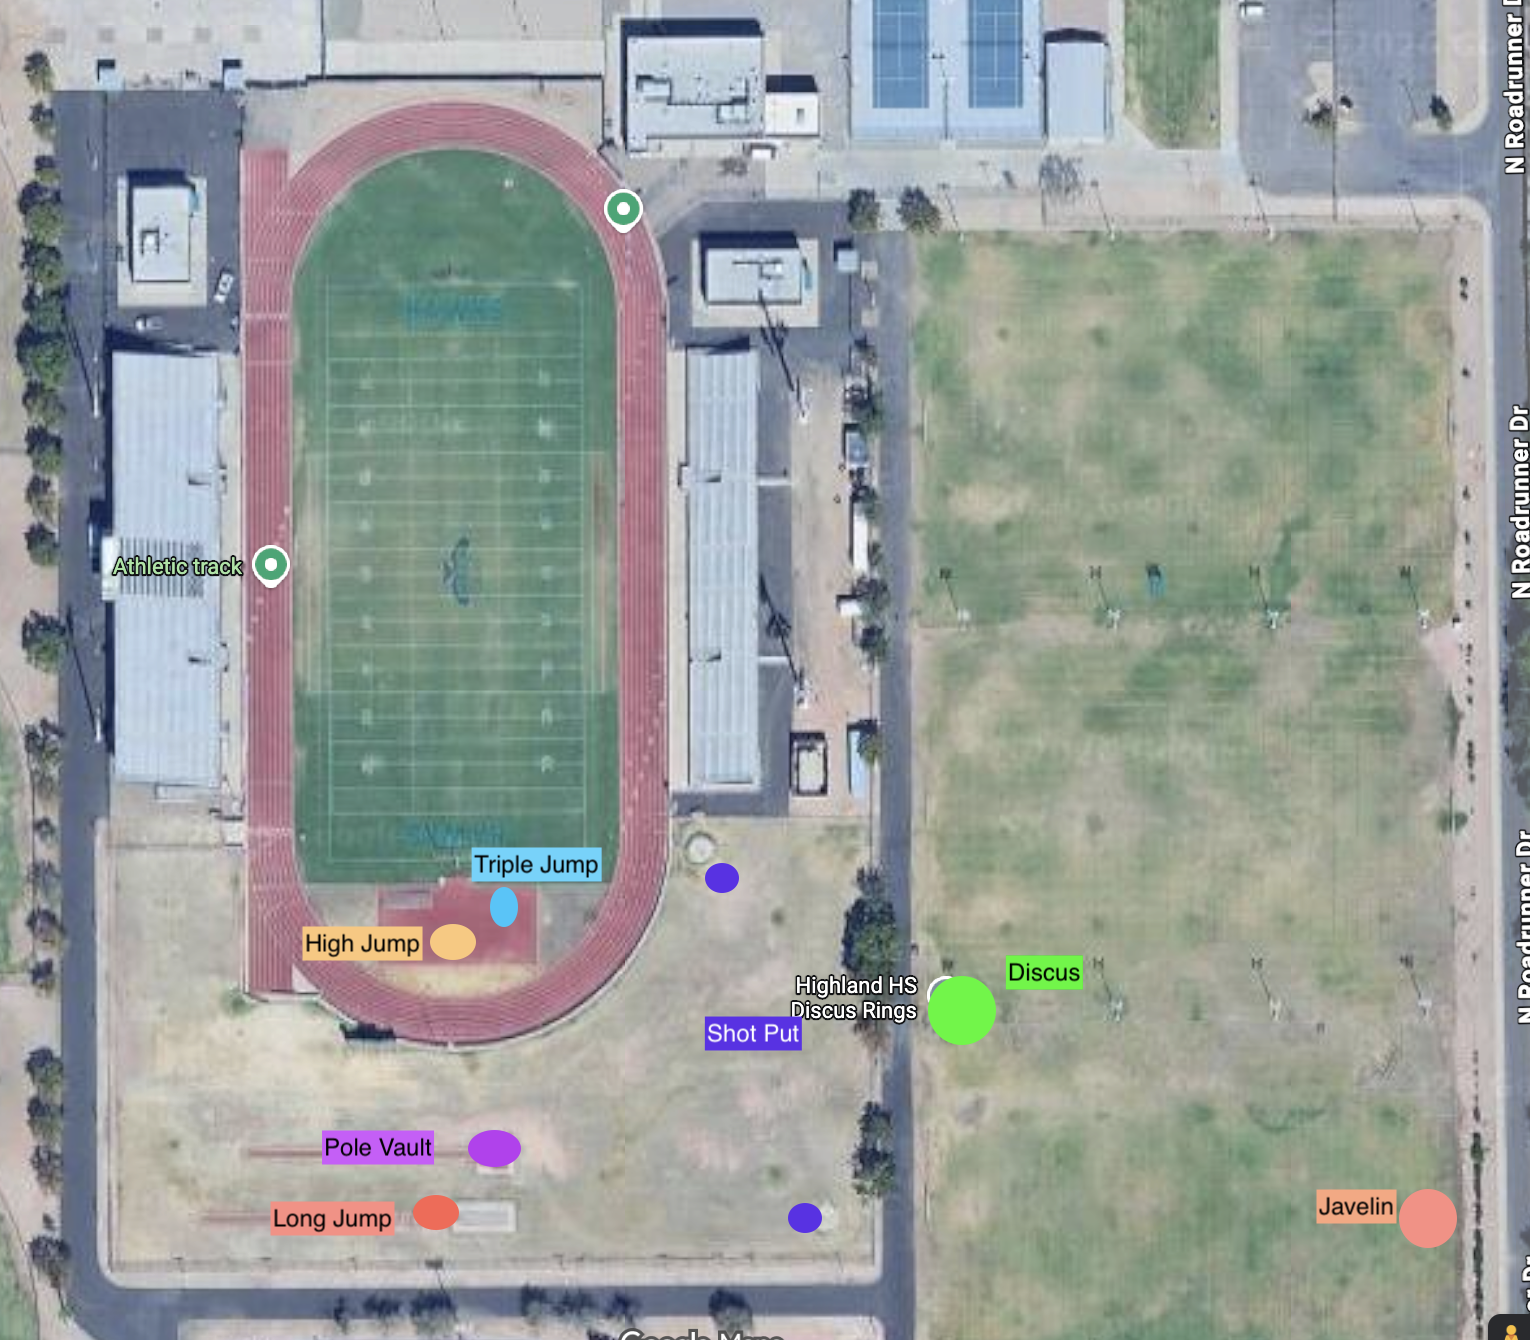
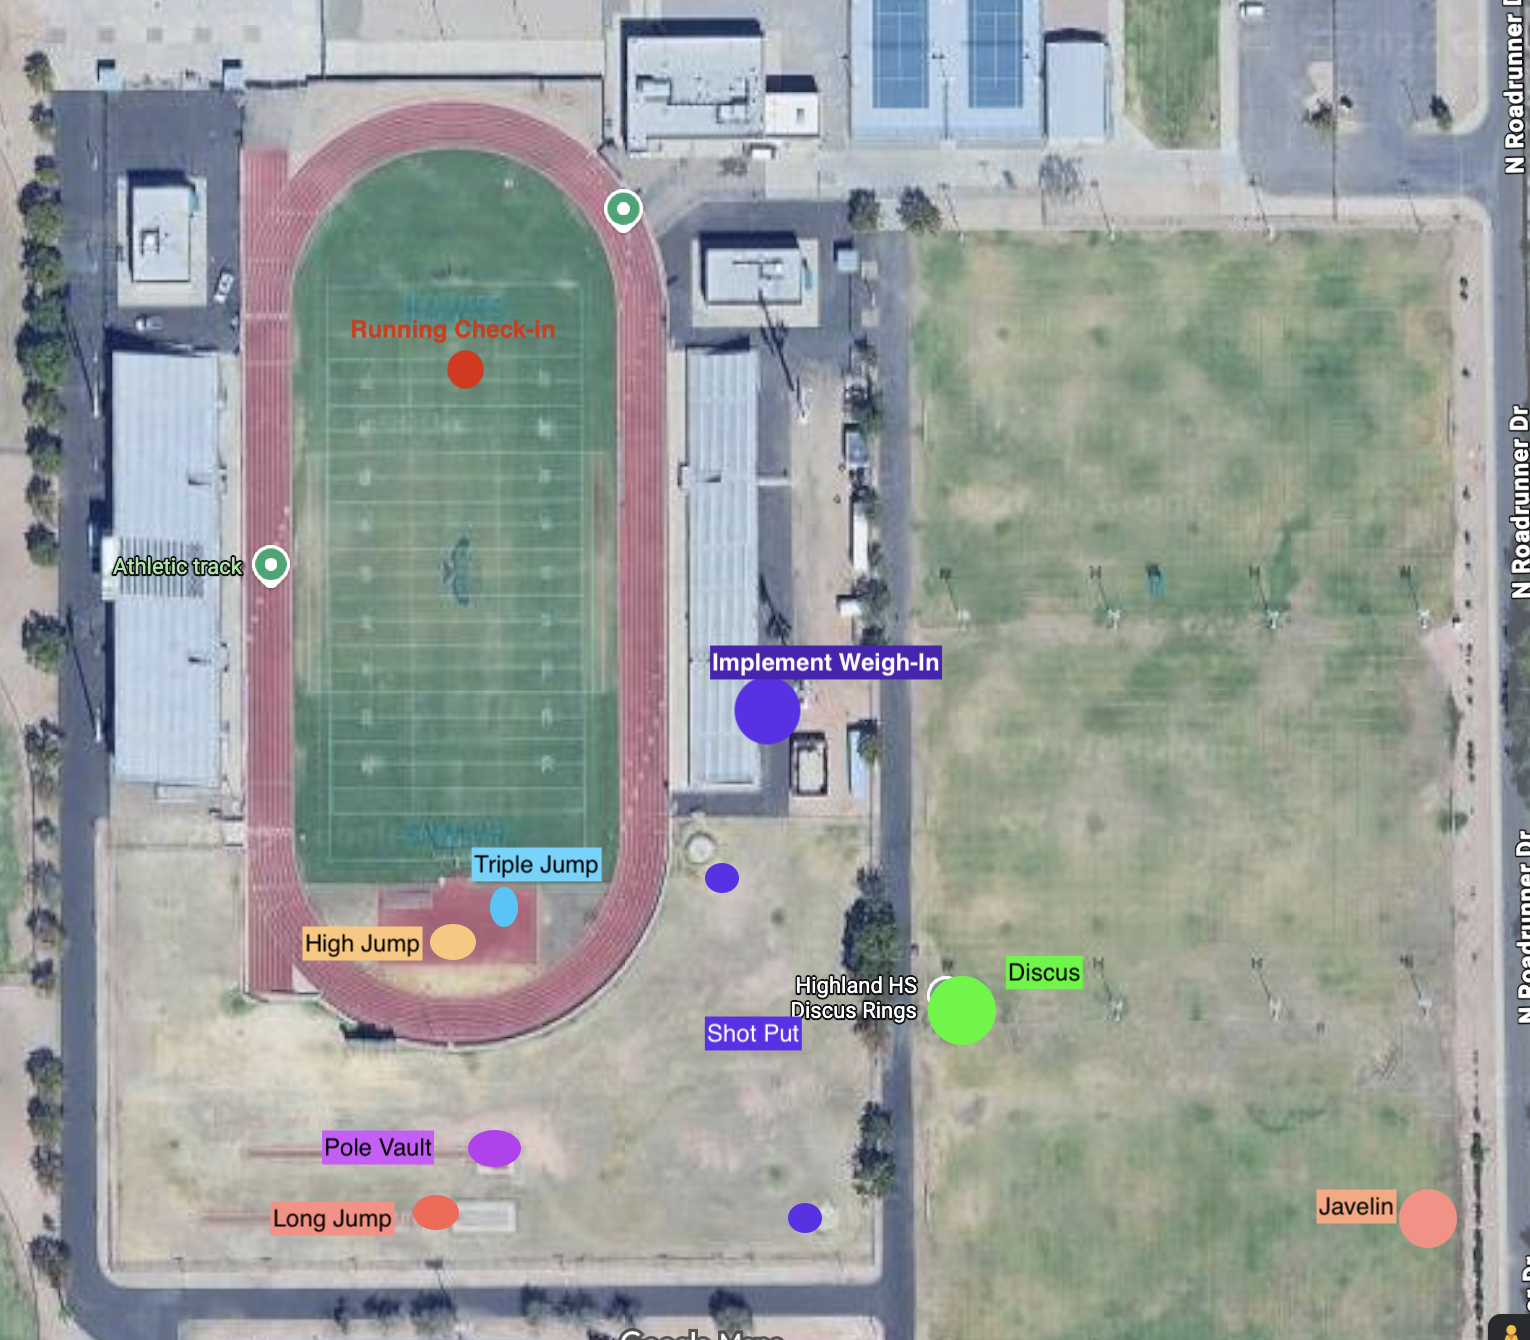
Move clerk note to rules section, add weigh-in location, update venue map
- Move Clerk of Course note from Venue to top of Competition Rules section
- Add confirmed weigh-in location: visitor's bleachers, east side of stadium
- Replace weigh-in TBD placeholder with confirmed info
- Update FieldEvent_Locations.png with runner check-in and weigh-in markers
- Update TODO.md: mark weigh-in location questions as resolved

Changed region(s): [[0.4608, 0.459, 0.6144, 0.5507], [0.2458, 0.2448, 0.3686, 0.306]]

diff --git a/meet-packet.html b/meet-packet.html
@@ -1487,12 +1487,6 @@
           enforced. See Javelin exception under Competition Rules.
         </p>
 
-        <div class="clerk-note">
-          <strong>Clerk of Course / Running Check-In:</strong> North end of the
-          infield. Athletes must report to the clerk when called. Failure to
-          report may result in scratching.
-        </div>
-
         <div class="parking-map-wrap">
           <img
             src="assets/BusParking-AthleteEntrance.png"
@@ -1811,6 +1805,12 @@
           <div class="section-divider" aria-hidden="true"></div>
         </div>
 
+        <div class="clerk-note">
+          <strong>Clerk of Course / Running Check-In:</strong> North end of the
+          infield. Athletes must report to the clerk when called. Failure to
+          report may result in scratching.
+        </div>
+
         <!-- General Rules -->
         <h3>General Rules</h3>
         <div class="rules-grid" style="margin-bottom: 28px">
@@ -1903,21 +1903,9 @@
                   responsible for lost or damaged implements.
                 </li>
                 <li>
-                  Implement weigh-in location and policy:
-                  <div
-                    class="tbd-box"
-                    style="
-                      margin-top: 6px;
-                      margin-bottom: 0;
-                      padding: 10px 14px;
-                    "
-                  >
-                    <div class="tbd-header">&#9888;&#65039; TBD</div>
-                    <p style="margin: 0; font-size: 0.82rem">
-                      Weigh-in location and procedure will be published with the
-                      final packet.
-                    </p>
-                  </div>
+                  <strong>Implements and weigh-ins</strong> will be checked
+                  underneath the <strong>visitor's bleachers on the east side
+                  of the stadium</strong>.
                 </li>
               </ul>
             </div>

diff --git a/TODO.md b/TODO.md
@@ -71,7 +71,7 @@ _Collect all factual data needed before any writing can begin. These items requi
 - [x] Confirm javelin location → **East practice fields, outside the stadium facility (grass)**
 - [x] Confirm infield surface → **Grass** _(food/beverage restrictions less strict than turf; spike rule still applies)_
 - [x] Confirm clerk of course / running event check-in location → **North end of the infield**
-- [ ] **[UNANSWERED]** Confirm location of weigh-in station for throwing implements _(TBD)_
+- [x] Confirm location of weigh-in station for throwing implements → **Visitor's bleachers, east side of stadium**
 - [ ] **[UNANSWERED]** Identify location of nearest hospital / emergency room _(TBD — needed for Section 16)_
 - [ ] **[UNANSWERED]** Identify location of AED on campus _(TBD — needed for Section 16)_
 - [ ] **[UNANSWERED]** Confirm track surface type (rubber, polyurethane, etc.) _(cosmetic detail — lower priority)_
@@ -487,7 +487,7 @@ _Questions still needing answers before certain sections can be written._
 | 13  | Discus/Javelin location                                               | Head Coach / Venue  | 2026-02-26  | 2026-02-26    | Both on east practice fields, outside stadium. Ring/runway counts still needed.                                                            |
 | 14  | Infield surface type                                                  | Head Coach          | 2026-02-26  | 2026-02-26    | **Grass**                                                                                                                                  |
 | 15  | Clerk of course location                                              | Head Coach          | 2026-02-26  | 2026-02-26    | **North end of the infield**                                                                                                               |
-| 16  | Weigh-in station location                                             | Head Coach          | 2026-02-26  |               | TBD                                                                                                                                        |
+| 16  | Weigh-in station location                                             | Head Coach          | 2026-02-26  | 2026-03-02    | **Visitor's bleachers, east side of stadium**                                                                                              |
 | 17  | Nearest hospital / ER name and address                                | AD                  | 2026-02-26  |               | TBD                                                                                                                                        |
 | 18  | AED location on campus                                                | AD                  | 2026-02-26  |               | TBD                                                                                                                                        |
 | 19  | Opening height — Boys Pole Vault                                      | Head Coach          | 2026-02-26  | 2026-02-26    | **7'6"**                                                                                                                                   |
@@ -500,7 +500,7 @@ _Questions still needing answers before certain sections can be written._
 | 26  | Boys and girls HJ simultaneous or sequential?                         | Head Coach          | 2026-02-26  | 2026-02-26    | **Sequential — Girls first, then Boys**                                                                                                    |
 | 27  | LJ gender order                                                       | Head Coach          | 2026-02-26  | 2026-02-26    | **Girls first, then Boys**                                                                                                                 |
 | 27b | TJ gender order                                                       | Head Coach          | 2026-02-26  | 2026-02-26    | **Boys first, then Girls**                                                                                                                 |
-| 28  | Implement weigh-in policy (host-provided vs. bring-your-own)          | Head Coach          | 2026-02-26  |               | TBD                                                                                                                                        |
+| 28  | Implement weigh-in policy (host-provided vs. bring-your-own)          | Head Coach          | 2026-02-26  | 2026-03-02    | **Checked under visitor's bleachers, east side of stadium**                                                                                |
 | 29  | Entry fee payment due date                                            | AD                  | 2026-02-26  | 2026-02-26    | **March 26, 2026**                                                                                                                         |
 | 30  | Online/electronic payment accepted?                                   | AD                  | 2026-02-26  | 2026-02-26    | **No — checks only**                                                                                                                       |
 | 31  | Adult spectator admission fee                                         | AD                  | 2026-02-26  | 2026-02-26    | **$5 at the gate**                                                                                                                         |
